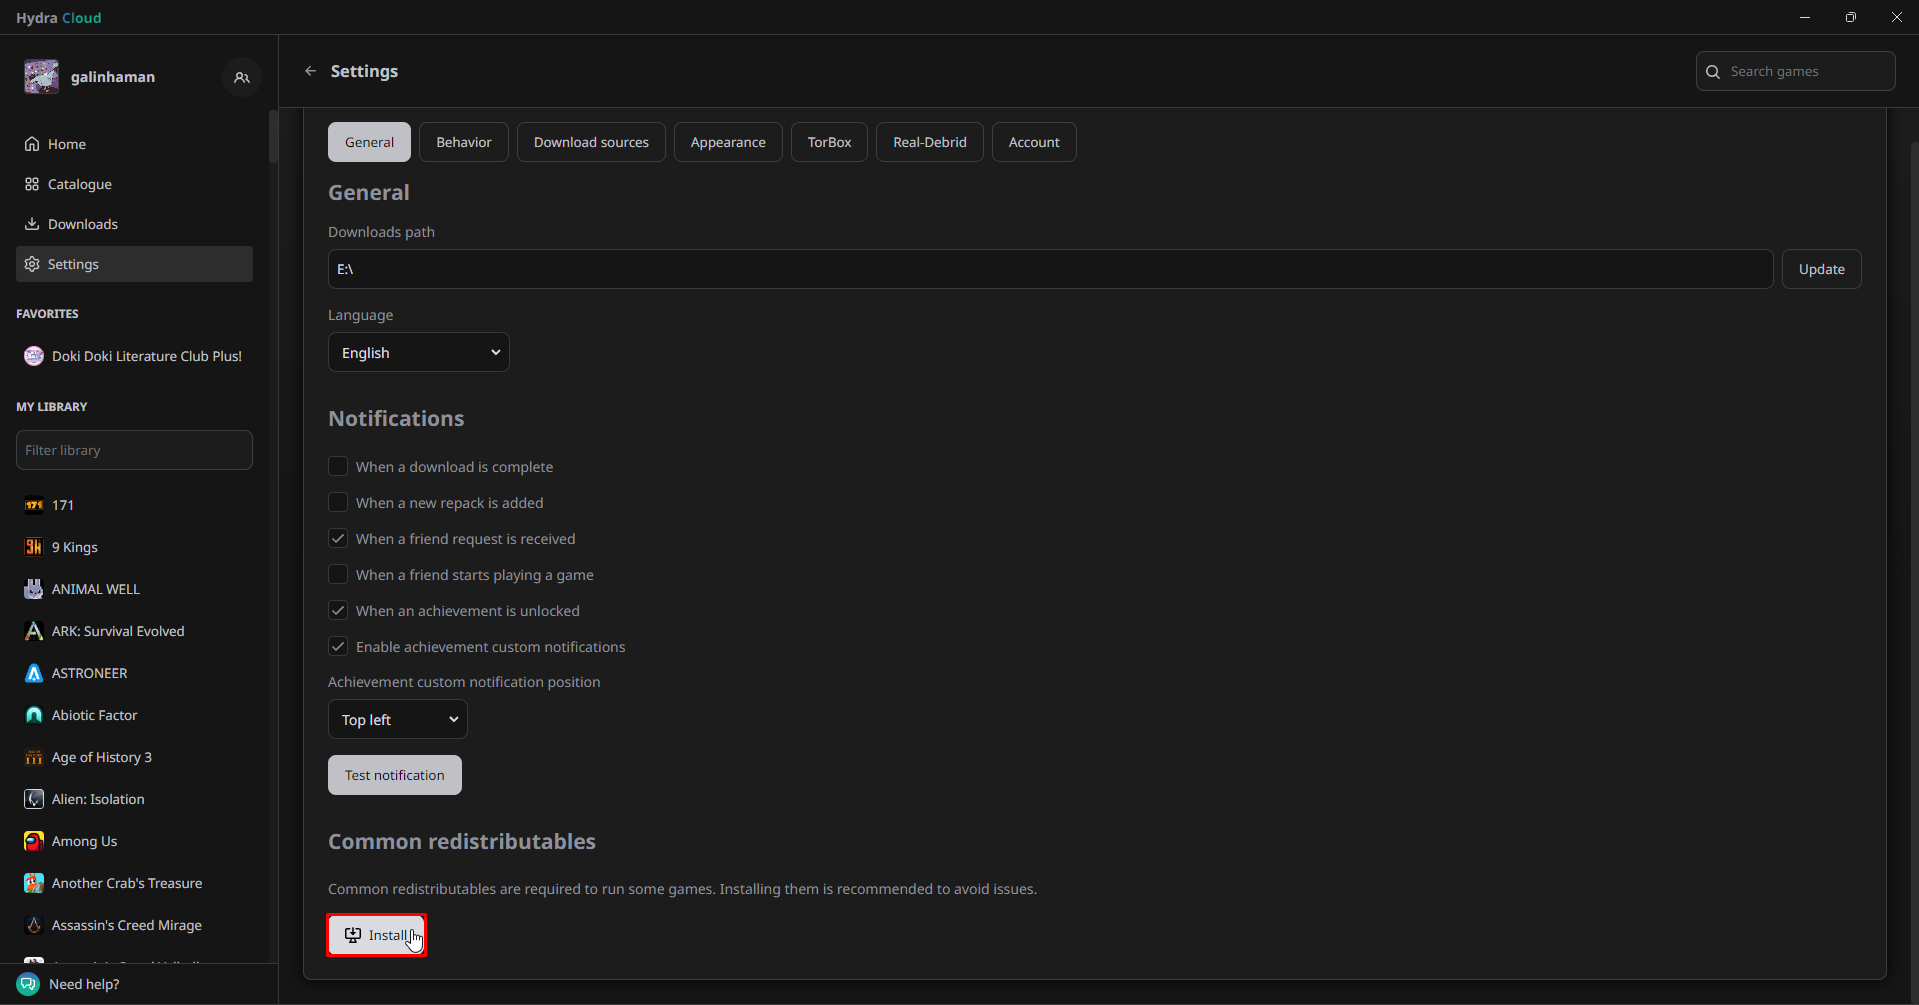
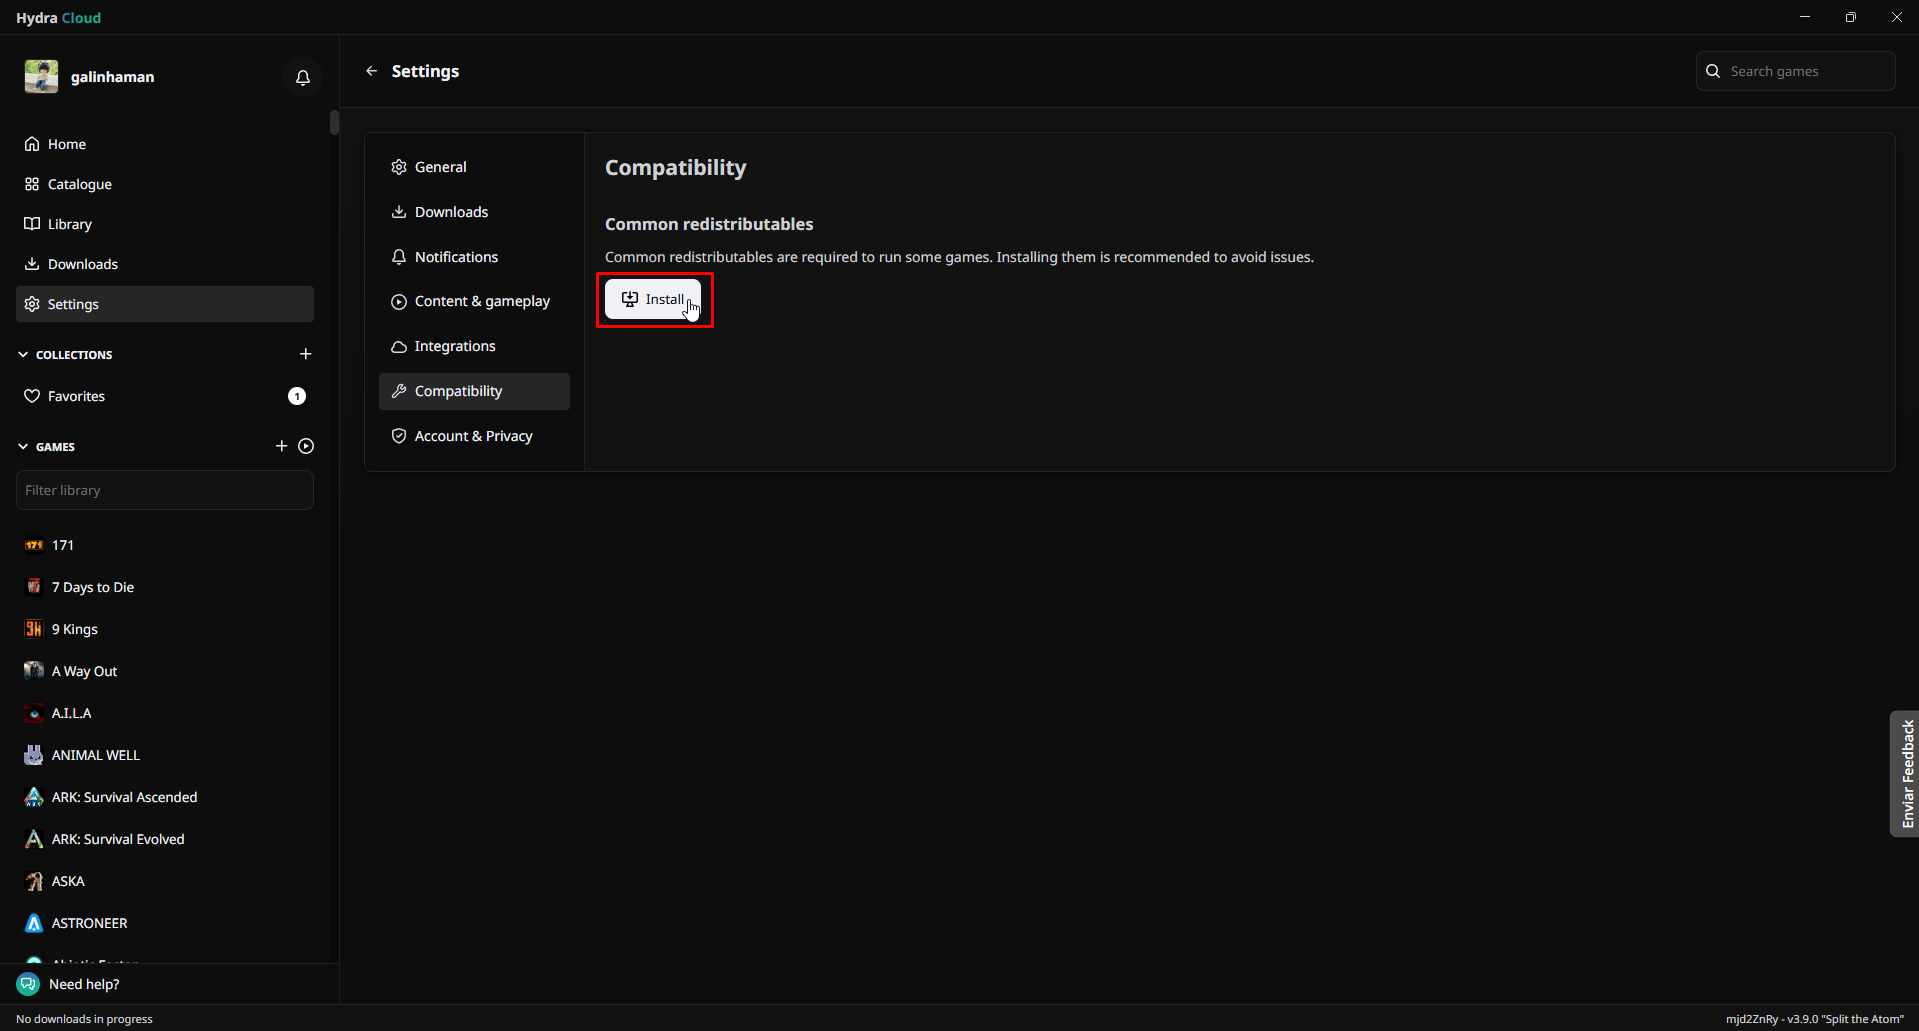
Updating common redistributables guide with latest update of Hydra Settings UI

diff --git a/docs/common-redistributables.md b/docs/common-redistributables.md
@@ -4,9 +4,11 @@ Os componentes recomendados são uma série de dependências que os jogos e inst
 
 Aqui vai um guia para isso:
 
-## Navegue até a aba `Ajustes`:
+## Navegue até a aba `Ajustes` > `Compatibilidade`:
 
 ![Ajustes](assets/guides/ajustes.png)
+
+![Compatibilidade](assets/guides/compatibilidade.png)
 
 ## Clique em `Instalar`:
 

diff --git a/docs/en/common-redistributables.md b/docs/en/common-redistributables.md
@@ -4,9 +4,11 @@ Common redistributables are a series of dependencies that games and installers c
 
 Here is a guide to do so:
 
-## Navigate to the `Settings` tab:
+## Navigate to the `Settings` > `Compatibility` tab:
 
 ![Settings](assets/guides/settings.png)
+
+![Compatibility](assets/guides/compatibility.png)
 
 ## Click on `Install`:
 

diff --git a/docs/ru/common-redistributables.md b/docs/ru/common-redistributables.md
@@ -4,9 +4,11 @@ Common redistributables are a series of dependencies that games and installers c
 
 Here is a guide to do so:
 
-## Navigate to the `Settings` tab:
+## Navigate to the `Settings` > `Compatibility` tab:
 
 ![Settings](assets/guides/settings.png)
+
+![Compatibility](assets/guides/compatibility.png)
 
 ## Click on `Install`:
 
